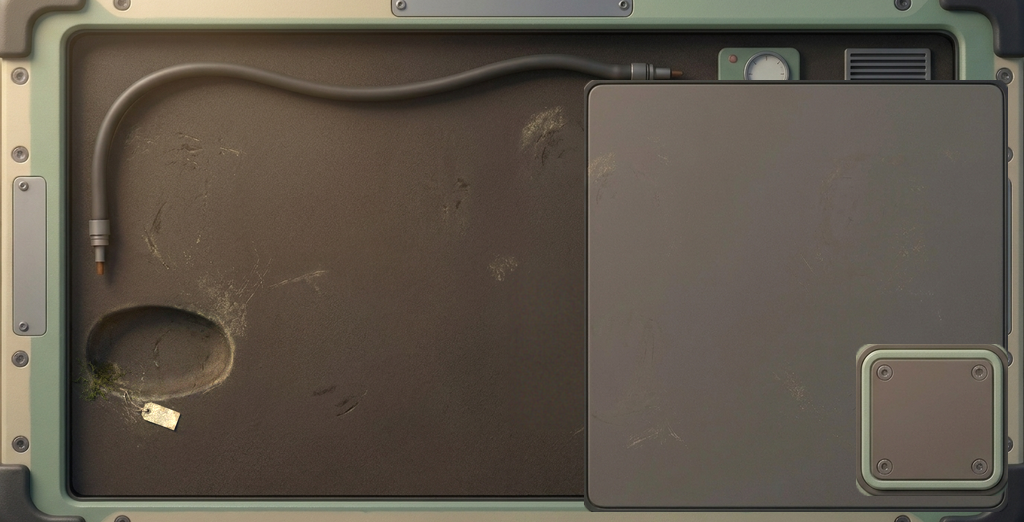
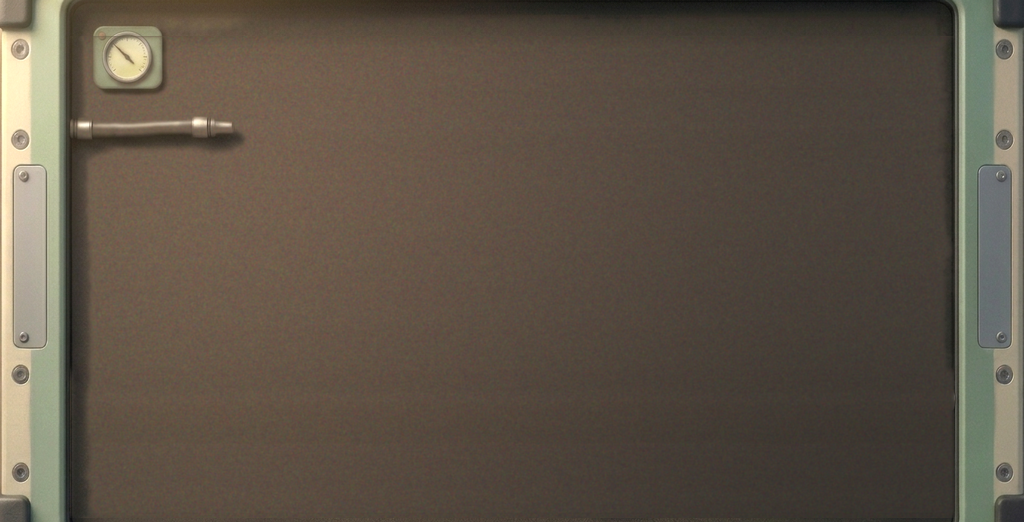
Pods masters pass 118: Create's own stage from the approved Pro request

diff --git a/art/station-masters/pods/tools/createstage.py b/art/station-masters/pods/tools/createstage.py
@@ -1,0 +1,35 @@
+"""Pass 118: room-bench-stage-create, 1024x522 (Station art director's Create brief, geometry from station-layouts.md "Create" on main): the same frame and slate floor as room-bench-stage-incubator, a new painting (one Pro request, owner-approved: source/raw/create-stage.jpg, 16:9, centre-cut to 1024:522 and reduced with Lanczos).
+The keep-clear zones (stage coordinates; stage y = screen y - 40): the rail y 0-40; the roll and trait line 296-728 x 48-184; the work tray 312-712 x 192-512; the pod, dish and origin 40-280 x 192-496; the small chamber, leaves, stamp and code 768-960 x 64-510. The painting put a gauge low in the middle (inside the tray's zone) and two gauges and a hose on the lower right (inside the small chamber's zone); by hand they are painted out (the floor model of tools/incubatorstage.py is laid over them), leaving the upper-left gauge and its hose, which lie in no zone. The floor's three-tile tone steps (if any) are removed the same way: the foam is rebuilt by a model in log light a(x) + b(y) plus the floor's grain over every pixel that is foam; the level is set to a mean L* of 36.
+python3 -I tools/createstage.py -> slices/room-bench-stage-create.png, marks/create-stage-proof-1x.png"""
+import os, json, hashlib
+import numpy as np
+from PIL import Image, ImageDraw
+ROOT = os.path.dirname(os.path.dirname(os.path.abspath(__file__))); os.chdir(ROOT)
+exec(open("tools/nightdist.py").read(), globals())
+SRC = "source/raw/create-stage.jpg"; im = Image.open(SRC).convert("RGB"); W, H = im.size; ch = round(W * 522 / 1024); y0 = (H - ch) // 2; st = np.asarray(im.crop((0, y0, W, y0 + ch)).resize((1024, 522), Image.LANCZOS)).astype(float)
+lg = np.log(np.maximum(st, 1.0))
+def gblur_(a_, sg):
+    fy = np.fft.fftfreq(a_.shape[0])[:, None]; fx = np.fft.rfftfreq(a_.shape[1])[None, :]; return np.fft.irfft2(np.fft.rfft2(a_) * np.exp(-2 * (np.pi * sg) ** 2 * (fx ** 2 + fy ** 2)), a_.shape)
+ix0, ix1, iy0, iy1 = 70, 954, 36, 518
+core = lg[iy0:iy1, ix0:ix1]; hwmask = np.zeros(core.shape[:2], bool)
+OUT = ((560, 430, 660, 522), (750, 370, 962, 522))                      # hardware inside the keep-clear zones, to be painted out (stage coordinates)
+for (x0, y0_, x1, y1) in OUT: hwmask[max(0, y0_ - iy0):y1 - iy0, max(0, x0 - ix0):x1 - ix0] = True
+cm = np.where(hwmask[..., None], np.nan, core); A_ = np.zeros((1, ix1 - ix0, 3)); B_ = np.zeros((iy1 - iy0, 1, 3))
+for _ in range(6):
+    B_ = np.nan_to_num(np.nanmedian(cm - A_, axis=1, keepdims=True), nan=0.0); A_ = np.nan_to_num(np.nanmedian(cm - B_, axis=0, keepdims=True), nan=0.0)
+xs_ = np.arange(ix1 - ix0); A_ = np.stack([np.polyval(np.polyfit(xs_[40:-40], A_[0, 40:-40, c], 3), xs_) for c in range(3)], -1)[None]
+model = A_ + B_; dev = np.abs(core - model).mean(2); foam = np.clip((0.22 - dev) / 0.06, 0, 1); foam = np.maximum(foam, np.clip(gblur_(hwmask.astype(float), 3.0) * 1.5, 0, 1)); foam = np.clip(gblur_(foam, 2.0), 0, 1)[..., None]
+rng = np.random.default_rng(17); noise = np.stack([gblur_(rng.standard_normal(core.shape[:2]), 0.7) * 0.045 / 0.55 for c in range(3)], -1)
+lg_new = lg.copy(); lg_new[iy0:iy1, ix0:ix1] = core * (1 - foam) + (model + noise) * foam
+lin = to_lin(np.exp(lg_new)); lo, hi = 0.5, 3.0
+for _ in range(30):
+    g = (lo * hi) ** 0.5
+    if lstar(to_srgb(lin * g)).mean() < 36.0: lo = g
+    else: hi = g
+floor = Image.fromarray(to_srgb(lin * (lo * hi) ** 0.5).astype(np.uint8))
+man = json.load(open("slices/manifest.json")); n = "room-bench-stage-create"; floor.save(f"slices/{n}.png", optimize=True)
+man[n] = {"size": [1024, 522], "rect": [0, 40, 1024, 522], "src": SRC + " (gemini-3-pro-image)", "made": "Create's own stage: the Pods room's sage and sand frame and dark foam floor, plain, with one small gauge and its hose in the upper left (outside every keep-clear zone: rail, roll and trait line, work tray, pod and dish, small chamber and leaves); the gauge low in the middle and the two gauges and the hose at the lower right, which lay in the zones, painted out by hand; a Pro painting, centre-cut to 1024x522, the foam rebuilt by a floor model, raised to a mean L* of 36 (pass 118)", "sha256": hashlib.sha256(open(f"slices/{n}.png", "rb").read()).hexdigest()}
+json.dump(man, open("slices/manifest.json", "w"), indent=1)
+P = floor.convert("RGBA"); d = ImageDraw.Draw(P)
+for (x0, y0_, x1, y1, c) in ((0, 0, 1023, 39, (255, 255, 255, 70)), (296, 48, 728, 184, (255, 220, 120, 70)), (312, 192, 712, 512, (120, 200, 255, 60)), (40, 192, 280, 496, (255, 120, 120, 60)), (768, 64, 960, 510, (160, 255, 160, 60))): d.rectangle([x0, y0_, x1, y1], outline=c[:3] + (255,))
+P.convert("RGB").save("marks/create-stage-proof-1x.png"); print("ok")

diff --git a/art/station-masters/pods/tools/status.py b/art/station-masters/pods/tools/status.py
@@ -28,7 +28,7 @@ AD_RECORDS = {
  "idle-vivarium-dawn-1024x568": ('signed', 'art director, verdict (d09acb12)', 'signed (art director) at 1x: L* 40.5, key R-B 37, sat 33 against the dawn rule (key R-B >= 35, L* 38-42); day 43.1/72/48'),
  "home-glass-dawn-640x488": ('signed', 'art director, verdict (d09acb12)', 'signed (art director) at 1x: L* 40.5, key R-B 36, sat 42 against the dawn rule; Idle dawn 40.5/37/33'),
  "home-bed-dawn-192x56": ('signed', 'art director, verdict (d09acb12)', 'signed (art director) at 1x: L* 43.0, key R-B 72, sat 50 against its glass dawn 40.5/36 (limits: L* +3, R-B +40)'),
- "room-bench-stage-create": ('held', None, "held (art director): signed as a cut (L* 36.8, key R-B 35, sat 22), but it is the Pods overview's stage with the nest moved, and its panel crosses Create's work tray (x 584-712); replaced by the Create set's own stage"),
+ "room-bench-stage-create": ('new', None, "pass 118: Create's own stage (a new Pro painting, owner-approved): the same frame and slate floor as the Incubator stage, plain, one small gauge and its hose in the upper left outside every keep-clear zone, the gauges and hose that lay in the zones painted out by hand; L* 36.0, key R-B 40, sat 25; awaiting the art director's judgement (not signed)"),
  "room-bench-stage-collection": ('signed', 'art director, verdict (d09acb12)', 'signed (art director) at 1x: L* 31.8, key R-B 35, sat 25 against the overview 36.8/35/22; a plain floor, no hardware, no ghost cut-outs; its faint residual banding sits under the place rects'),
  "room-bench-stage-incubator": ('signed', 'art director, verdict (d09acb12)', "signed (art director) at 1x: L* 36.0, key R-B 38, sat 24 against the Pods overview 36.8/35/22; floor 0.5 percent above L* 70 (the lit sand rim brings the whole to 4.7, as the overview's 3.3: housing, not glow); hoses clear of the gauges"),
  "leaf-full-16x20": ('signed', 'art director, verdict (d09acb12)', "signed (art director): hand-pixelled, palette-exact, the spec's leaf (sage, sageD vein)"),

diff --git a/art/station-masters/pods/README.md b/art/station-masters/pods/README.md
@@ -699,7 +699,7 @@ Each slice is named by the register id it replaces (`room`, `ring`, `page`, `tra
 | `room-bench-stage-chapter` | 1024×522 | (0, 40, 1024, 522) | signed (art director, Pods room verdict (68130857)): signed (art director): the Pods room in the world brief's look, the sample case of board frame 2 (passes 93, 95, 98) | the Pods room set, the redo (pass 95): the chapter stage: the floor with the nest on the axis x 216 and a warm matte slate page panel to the right (424, 72, 584, 440); composed; the pods are placed by the renderer, never painted in |
 | `room-bench-stage-collection` | 1024×522 | (0, 40, 1024, 522) | signed (art director, verdict (d09acb12)): signed (art director) at 1x: L* 31.8, key R-B 35, sat 25 against the overview 36.8/35/22; a plain floor, no hardware, no ghost cut-outs; its faint residual banding sits under the place rects | the Pods room set, the redo (pass 95): the collection stage: the plain case floor, nothing painted inside the six place rects (16 + 336c, 48 + 240r, 320x224); the hose, gauge and vent in the strip between the rows; composed (pass 109); the pods are placed by the renderer, never painted in |
 | `room-bench-stage-compare` | 1024×522 | (0, 40, 1024, 522) | withdrawn: withdrawn (art director): the old glass-lab compare stage; Compare is not in the current layout, and the room was redrawn in the world brief's look without it | Compare's bench: the chapter bench without the beam and the dish glow (two pages on the pane, no pod on stage): the same generated glass wall windowed inside its own left strip so no cone or pool shows, graded as the others with the vignette centred on x 512 |
-| `room-bench-stage-create` | 1024×522 |  | held: held (art director): signed as a cut (L* 36.8, key R-B 35, sat 22), but it is the Pods overview's stage with the nest moved, and its panel crosses Create's work tray (x 584-712); replaced by the Create set's own stage | the Pods room set, the redo (pass 95): the Create stage: the overview stage with the nest moved by (-96, +16) to (160, 352), so Create's cradle-front registers on it; the rest as the overview (the panel and the plate); composed; the pods are placed by the renderer, never painted in |
+| `room-bench-stage-create` | 1024×522 | (0, 40, 1024, 522) | new: pass 118: Create's own stage (a new Pro painting, owner-approved): the same frame and slate floor as the Incubator stage, plain, one small gauge and its hose in the upper left outside every keep-clear zone, the gauges and hose that lay in the zones painted out by hand; L* 36.0, key R-B 40, sat 25; awaiting the art director's judgement (not signed) | Create's own stage: the Pods room's sage and sand frame and dark foam floor, plain, with one small gauge and its hose in the upper left (outside every keep-clear zone: rail, roll and trait line, work tray, pod and dish, small chamber and leaves); the gauge low in the middle and the two gauges and the hose at the lower right, which lay in the zones, painted out by hand; a Pro painting, centre-cut to 1024x522, the foam rebuilt by a floor model, raised to a mean L* of 36 (pass 118) |
 | `room-bench-stage-incubator` | 1024×522 | (0, 40, 1024, 522) | signed (art director, verdict (d09acb12)): signed (art director) at 1x: L* 36.0, key R-B 38, sat 24 against the Pods overview 36.8/35/22; floor 0.5 percent above L* 70 (the lit sand rim brings the whole to 4.7, as the overview's 3.3: housing, not glow); hoses clear of the gauges | the Incubator's stage: the Pods room's sage and sand frame and dark foam floor, a hose in from each side low on the floor, three small gauges low and to the sides, the hoses clear of every gauge, the left third and the whole middle plain, no chamber painted; a Pro painting, centre-cut to 1024x522, its three faint vertical brightness slabs removed by hand (pass 111) |
 | `room-bench-stage-overview` | 1024×522 | (0, 40, 1024, 522) | signed (art director, Pods room verdict (68130857)): signed (art director): the Pods room in the world brief's look, the sample case of board frame 2 (passes 93, 95, 98) | the Pods room set, the redo (pass 95): the overview stage: the floor with ONE fitted egg-shaped nest (about 150x96, uniformly scaled) on the pod axis x 256, the stamp plate at (856, 344) and a plain warm slate panel at the right; composed from three Pro paintings; the pods are placed by the renderer, never painted in |
 | `room-cradle` | 224×96 | (520, 328, 224, 96) | signed (art director, Pods room verdict (68130857)): signed (art director): the Pods room in the world brief's look, the sample case of board frame 2 (passes 93, 95, 98) | the Pods room set, the redo (pass 95): the pod's fitted nest (224x96), cut from the composed overview at (144, 288); the pods are placed by the renderer, never painted in |
@@ -791,6 +791,18 @@ The Station art director's dawn fix (returned to `new` after a 1x check: the key
 | `home-glass-night-640x488` | 30.6 | (121, 99, 68) | 53 | 53 |
 
 Honest notes: the dawns' saturation (33, 36, 42) stays under the day's (48, 57, 50) and the dusk's (56, 62, 62); the key R-B reaches the asked 35 but not the day's 74. The night glass and the other lights are unchanged.
+
+## Pass 118 - Create's own stage (owner-approved Pro request)
+
+The art director's Create brief (item 4), cap 9 MXN, 1 Pro request (+1 held only if it failed): **one request** to gemini-3-pro-image (`create-stage`, reference: the signed Incubator stage for the frame and floor), succeeded, not retried: **3.96 MXN** (the held one unspent); today's total 131.23 MXN of 250. [`tools/createstage.py`](tools/createstage.py): the painting centre-cut to 1024x522; the model put one gauge low in the middle (inside the work tray's zone) and two gauges and a hose at the lower right (inside the small chamber's zone), so by hand those are painted out (the floor model of the Incubator stage laid over them) and the upper-left gauge and its hose, which lie in no keep-clear zone, are kept; the foam is rebuilt by a model in log light (no tile seams) and set to a mean L* of 36. The keep-clear zones (rail y 0-40, roll and trait line 296-728 x 48-184, work tray 312-712 x 192-512, pod, dish and origin 40-280 x 192-496, small chamber, leaves, stamp and code 768-960 x 64-510) are all plain floor; `marks/create-stage-proof-1x.png` draws them. Hash (sha256 prefix) 1e16035aa24e; `new` (it replaces the held stand-in, the Pods overview with the nest moved). 1x numbers (the Pods overview 36.8 / 35 / 22):
+
+| slice | mean L* | key RGB | key R-B | sat |
+| --- | --- | --- | --- | --- |
+| `room-bench-stage-overview` | 36.8 | (179, 170, 144) | 35 | 22 |
+| `room-bench-stage-incubator` | 36.0 | (182, 174, 145) | 37 | 24 |
+| `room-bench-stage-create` | 36.0 | (179, 169, 140) | 40 | 25 |
+
+The floor (inside the rim) has 0.25 percent of pixels above L* 70. Honest note: the brief asked for hoses and two or three small gauges along the bottom edge and the outer sides, but those places lie inside the keep-clear zones (the pod zone, the tray's, the small chamber's), so only the upper-left gauge and hose remain; the brief's hardware and its zones cannot both hold.
 
 ## Pass 117 - the bud redone (owner-approved Pro request)
 
